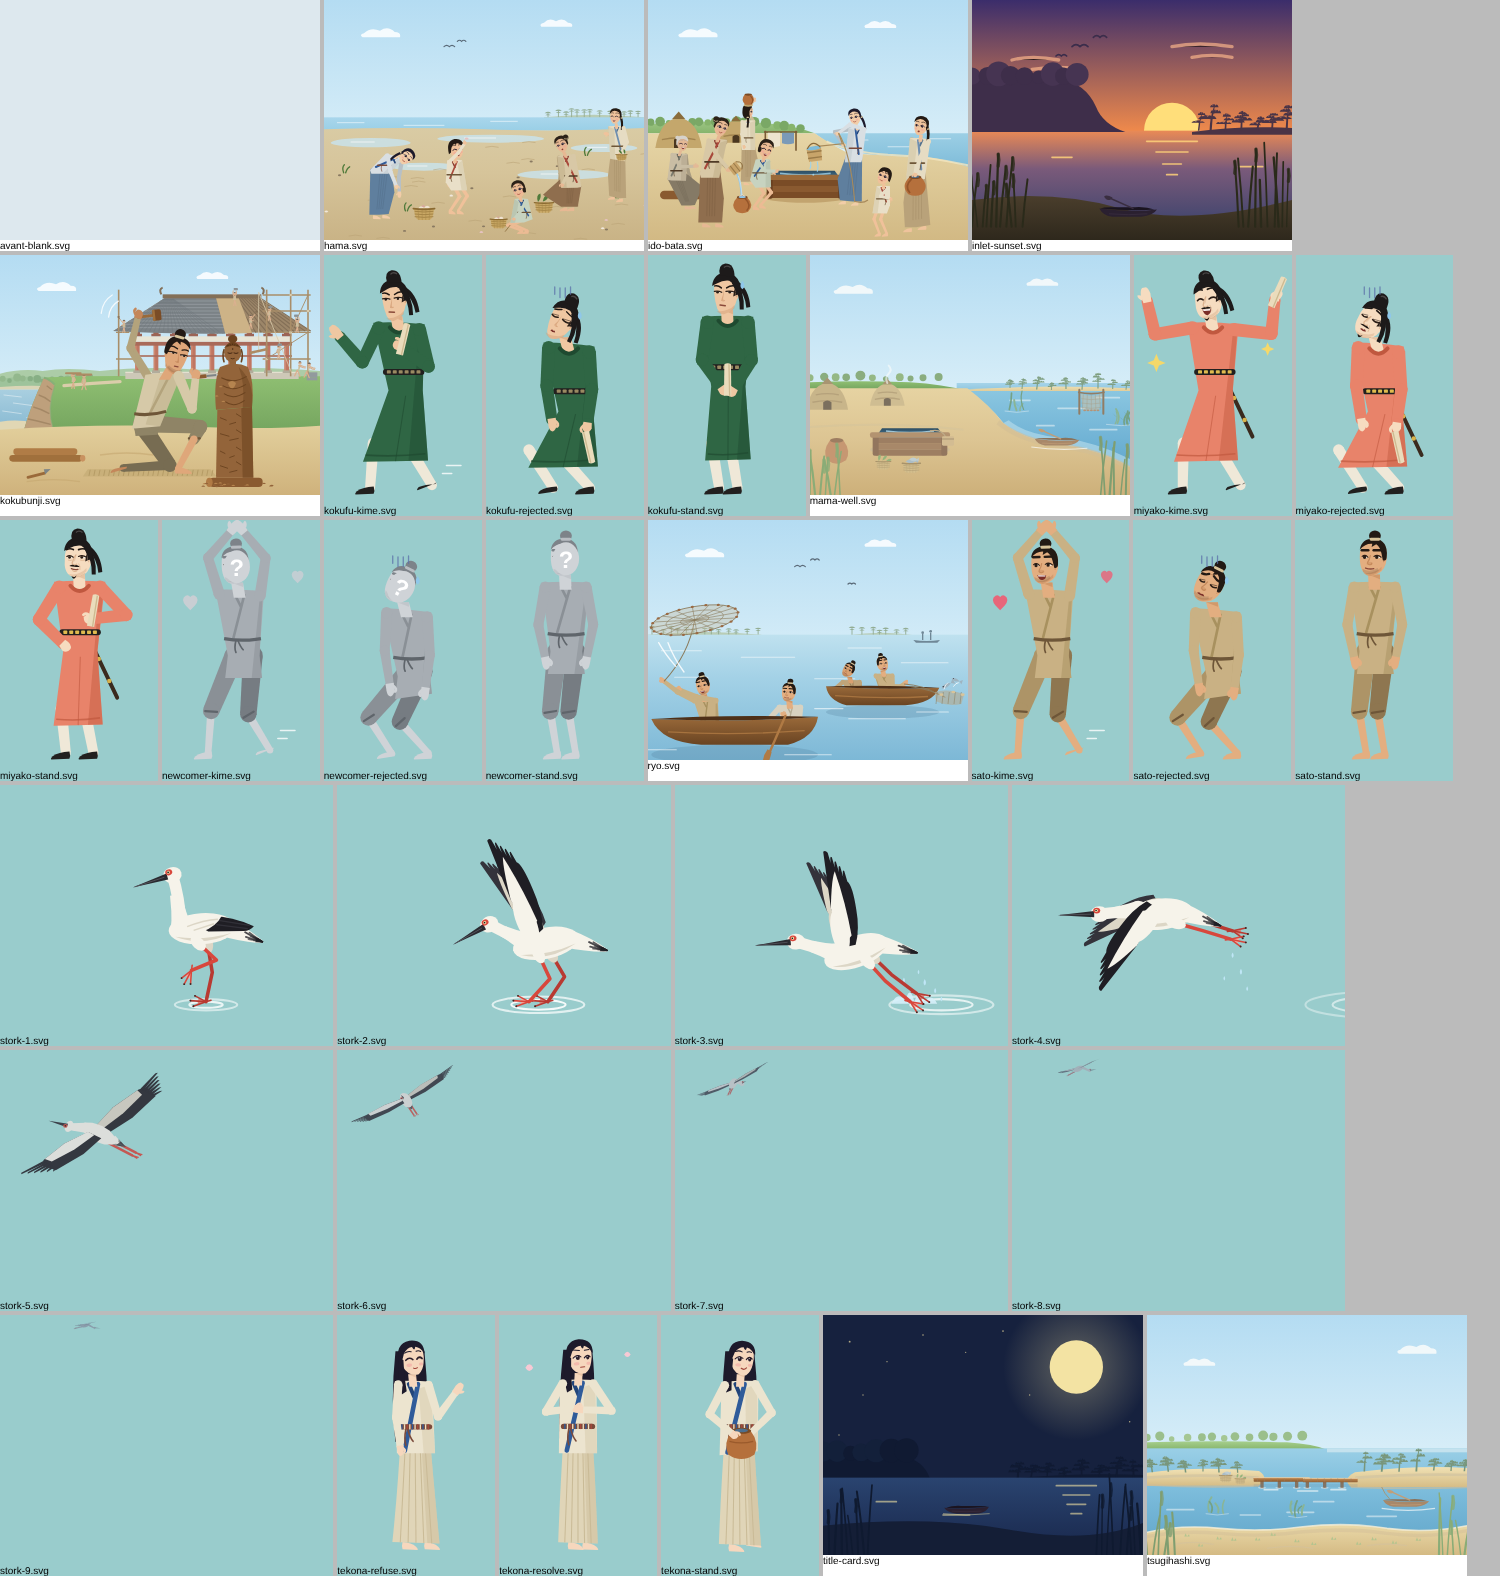
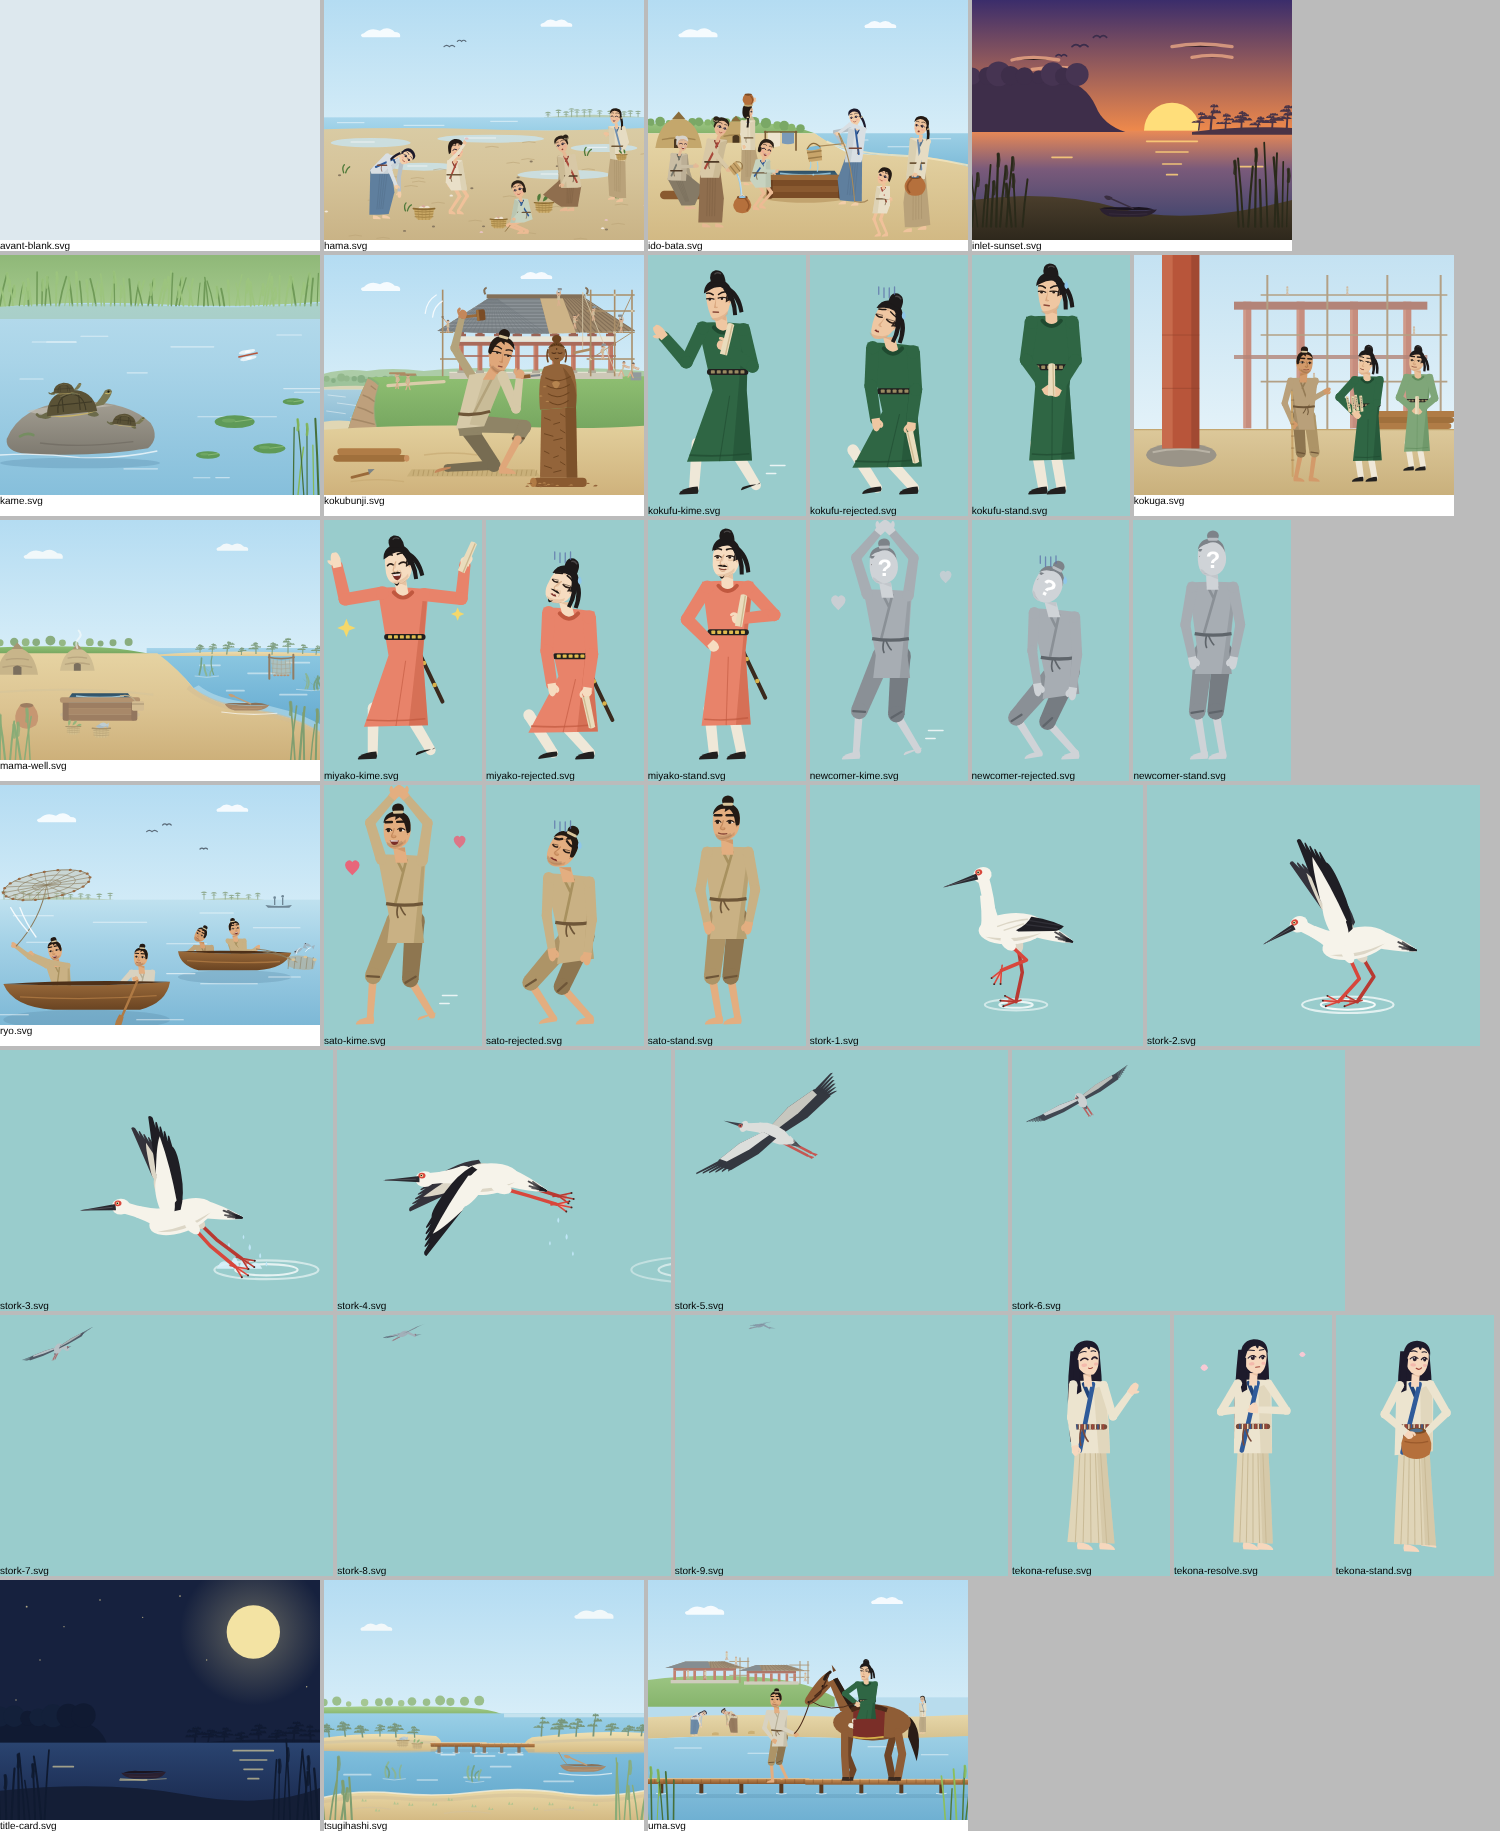
feat(tekona): 馬で継橋を渡る役人・柱のたもとの打ち合わせ・甲羅干しの亀の背景を描く
- uma.svg：従者が手綱を引く馬に乗った地方役人が継橋を進む。中景に浜の女たち、遠景の丘に建設中の国府
- kokuga.svg：建設中の柱のたもとで、木簡を広げて工事の進み具合を話し合う2人の役人と大工の棟梁（画面の中心を外す）
- kame.svg：水辺の石の上で甲羅干しをする親亀と小亀（画面の中央を外す）
- 生成スクリプト extra.cjs を追加。chars.cjs から役人の姿の部品（officialFigure など）を書き出す（ほかの絵は変わらない）
台本・素材の宣言には未登録。版4の生成スクリプト・素材・一覧画像・版の記録と stories/tekona/assets を更新。

Claude-Session: https://claude.ai/code/session_011SEzgWsvxN8M8X3xfVu3am

diff --git a/resources/tekona-workshop/art-versions/README.md b/resources/tekona-workshop/art-versions/README.md
@@ -17,7 +17,7 @@
 | `assets/*.svg` | その版の素材一式。ファイル名・大きさ（人物240×380、背景480×360）・回転の中心は全版で共通なので、`stories/tekona/assets/`へ戻せばその版の絵でSB3を作れる |
 | `preview.png` | 素材の一覧（人物の背景の水色は確認用） |
 | `style-reference.png` | その版の`copilot/style-reference.png`（Copilotに添付する絵柄の見本） |
-| `generator/`（版2〜版4） | SVGを生成したスクリプト。`node generator/chars.cjs 出力先フォルダ`、`node generator/backdrops.cjs 出力先フォルダ`（版4は`stork.cjs`・`kokubunji.cjs`・`village.cjs`・`sea.cjs`も同じように）で、`assets/`と同じSVGを出力する |
+| `generator/`（版2〜版4） | SVGを生成したスクリプト。`node generator/chars.cjs 出力先フォルダ`、`node generator/backdrops.cjs 出力先フォルダ`（版4は`stork.cjs`・`kokubunji.cjs`・`village.cjs`・`sea.cjs`・`extra.cjs`も同じように）で、`assets/`と同じSVGを出力する |
 
 補足：
 
@@ -84,6 +84,15 @@
   * 女は麻の上衣（右前）と裳、ひもの帯、はだし。髪は後ろで束ねるかまげにまとめ、老女は白髪。子どもはひざ丈の上衣ひとつ。男は里の若者と同じ麻の上衣と袴。
   * 人物は`generator/chars.cjs`（顔・骨格・手足、男の姿）と`generator/village.cjs`（女・子どもの姿）の部品で描いている。
     女の表情に、笑う顔（laugh）・話す顔（talk）と、年寄りの顔（しわ）を加えた。手児奈と求婚者の絵は変わらない。
+* **国府と水辺の3場面**（480×360、`generator/extra.cjs`。台本と`project-assets-dsl4.yml`にはまだ登録していません）
+  * 継橋を馬で渡る役人（`uma.svg`）：従者が前を歩いて後ろ手に手綱を引き、国府の役人（深緑の袍・頭巾）が在来の小柄な馬
+    （鞍・泥よけの障泥・鐙・おもがい）に乗って、水面すれすれの継橋を進む。中景の浜では女たちが身をかがめて貝や海藻をとり、
+    遠景の丘の上では国府の建物（丹塗りの柱、ふきかけの屋根、足場、小さな労務者）を建てている。遠景・中景は空気の色へ寄せて淡くした。
+  * 柱のたもとの打ち合わせ（`kokuga.svg`）：画面の左に、礎石にのった太い丹塗りの柱。画面の中心より右に寄せて、
+    物差しを立てて柱を指す大工の棟梁、墨で書いた木簡を何枚か手のひらに広げて読む役人（深緑の袍）、笏を持って後ろで聞く役人（浅緑の袍）が、
+    淡々とした表情で工事の進み具合を話し合う。奥に組みかけの軸組と足場、積んだ材木。
+  * 甲羅干しをする亀（`kame.svg`）：画面の左下の、水から出た平たい石の上で、首をのばして日を浴びる親亀と、その背中と石の端の小亀。
+    右の水面はハスの葉とトンボだけにして、中央をあけた。奥は葦原とその映りこみ。
 * **コウノトリの9枚絵**（`stork-1`〜`stork-9`、320×240）：水辺から飛び立つアニメーション。大型の鳥なので真上には跳ばず、次の順に動きます。
   1. 飛ぶ前の姿勢：あごを少し引き、翼を体に引き寄せてたたみ、重心を高くして立つ。手前の足を軽く上げ、奥の足に力を込めてまっすぐ立ち、遠く前方を見る。
   2. 身をかがめ、翼を半分ひらいて構える（翼は肩から上方向へ1.4倍に伸ばして大きく見せる）。
